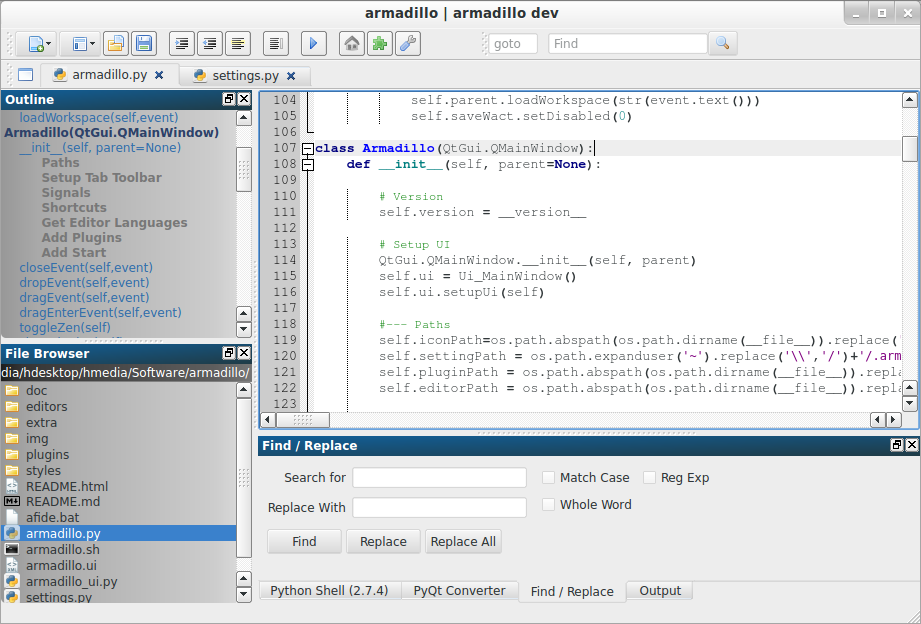
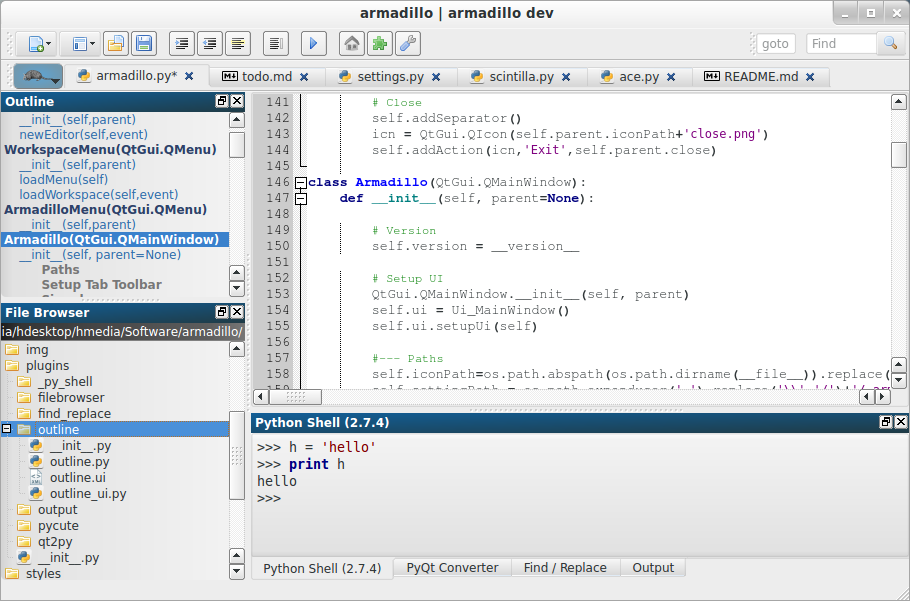
updated readme format and screenshot

diff --git a/armadillo.py b/armadillo.py
@@ -143,10 +143,6 @@ class ArmadilloMenu(QtGui.QMenu):
         icn = QtGui.QIcon(self.parent.iconPath+'close.png')
         self.addAction(icn,'Exit',self.parent.close)
         
-##        self.triggered.connect(self.trig)
-##    def trig(self):
-##        print 'tirggerd'
-            
 class Armadillo(QtGui.QMainWindow):
     def __init__(self, parent=None):
 

diff --git a/README.md b/README.md
@@ -1,4 +1,4 @@
-Armadillo IDE
+# Armadillo IDE
 ![Alt text](img/armadillo.png "afide")
 =====
 
